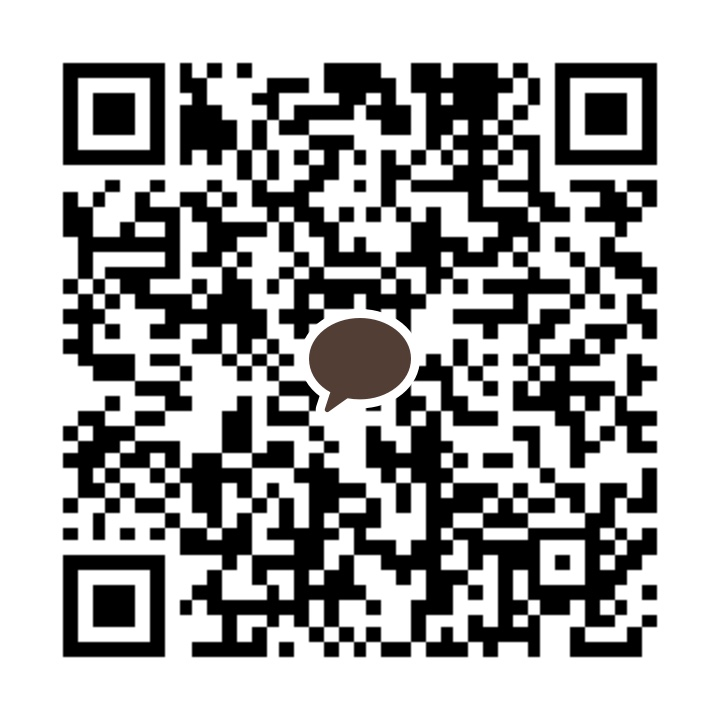
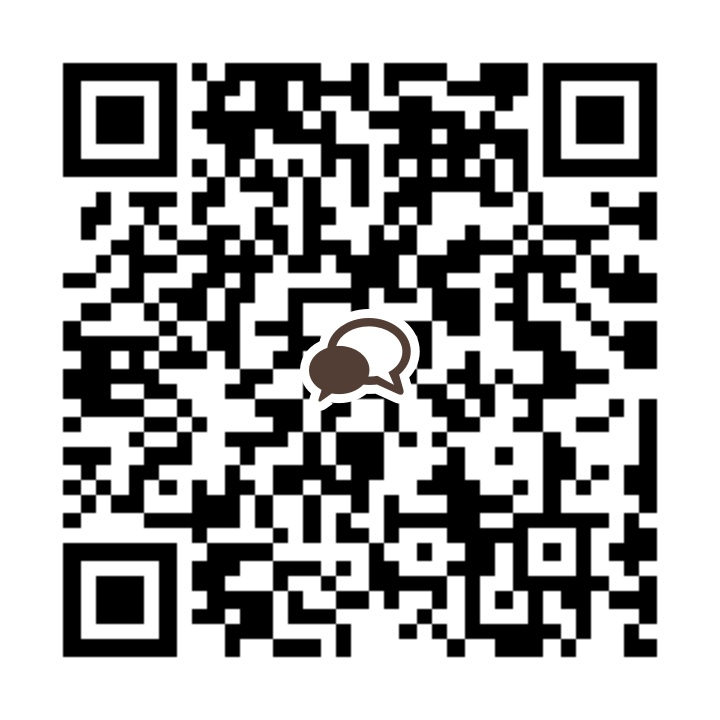
수정(1/2)

diff --git a/contact.html b/contact.html
@@ -11,7 +11,7 @@
 </head>
 
 <body>
-     <!--메뉴박스-->
+    <!--메뉴박스-->
     <div class="menu_box">
         <nav>
             <ul class="gnb">
@@ -139,8 +139,8 @@
                             </li>
                             <li>
                                 <h5 class="kakao_tit">Kakao</h5>
-<!--                                <p>jdaseul</p>-->
-                                <img src="images/kakao_qr.jpg" alt="qr코드" class="kakao_qr">
+                                <!--                                <p>jdaseul</p>-->
+                                <a href="https://open.kakao.com/o/sHDEn7Oc" target="_blank"><img src="images/kakao_qr.jpg" alt="오픈카톡qr코드" class="kakao_qr"></a>
                             </li>
                         </ul>
                         <!--이력서, 이메일버튼-->
